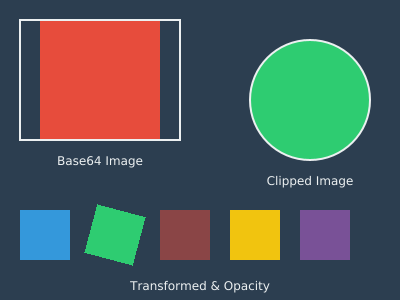
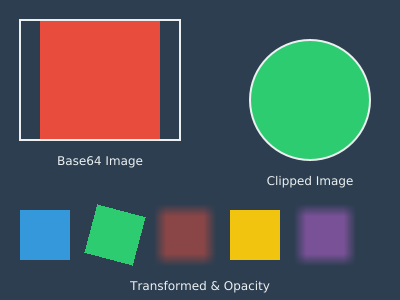
Improve raster image edge blending for opacity rendering

Changed region(s): [[0.72, 0.69, 0.9, 0.9], [0.39, 0.69, 0.54, 0.9]]

diff --git a/src/main/java/com/jairosvg/draw/ImageHandler.java b/src/main/java/com/jairosvg/draw/ImageHandler.java
@@ -101,6 +101,7 @@ public final class ImageHandler {
             double[] ratio = preserveRatio(surface, node, width, height);
             var savedTransform = surface.context.getTransform();
             var savedComposite = surface.context.getComposite();
+            var savedInterpolation = surface.context.getRenderingHint(java.awt.RenderingHints.KEY_INTERPOLATION);
 
             surface.context.translate(x, y);
             surface.context.scale(ratio[0], ratio[1]);
@@ -110,9 +111,27 @@ public final class ImageHandler {
                 surface.context.setComposite(
                         java.awt.AlphaComposite.getInstance(java.awt.AlphaComposite.SRC_OVER, (float) opacity));
             }
+            surface.context.setRenderingHint(java.awt.RenderingHints.KEY_INTERPOLATION,
+                    java.awt.RenderingHints.VALUE_INTERPOLATION_BILINEAR);
 
-            surface.context.drawImage(img, 0, 0, null);
+            BufferedImage source = img;
+            int drawX = 0;
+            int drawY = 0;
+            if (opacity < 1) {
+                source = new BufferedImage(img.getWidth() + 2, img.getHeight() + 2, BufferedImage.TYPE_INT_ARGB);
+                var g = source.createGraphics();
+                g.drawImage(img, 1, 1, null);
+                g.dispose();
+                drawX = -1;
+                drawY = -1;
+            }
 
+            surface.context.drawImage(source, drawX, drawY, null);
+
+            surface.context.setRenderingHint(java.awt.RenderingHints.KEY_INTERPOLATION,
+                    savedInterpolation != null
+                            ? savedInterpolation
+                            : java.awt.RenderingHints.VALUE_INTERPOLATION_NEAREST_NEIGHBOR);
             surface.context.setComposite(savedComposite);
             surface.context.setTransform(savedTransform);
         } catch (IOException e) {
